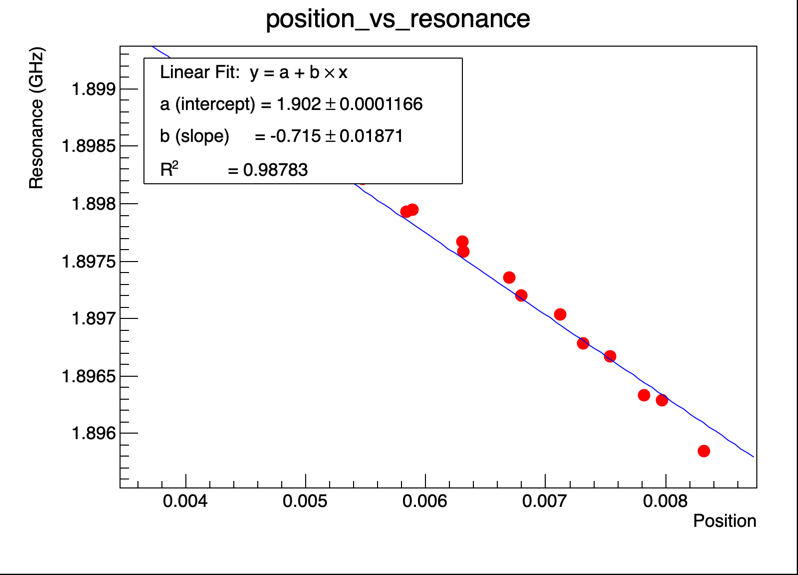
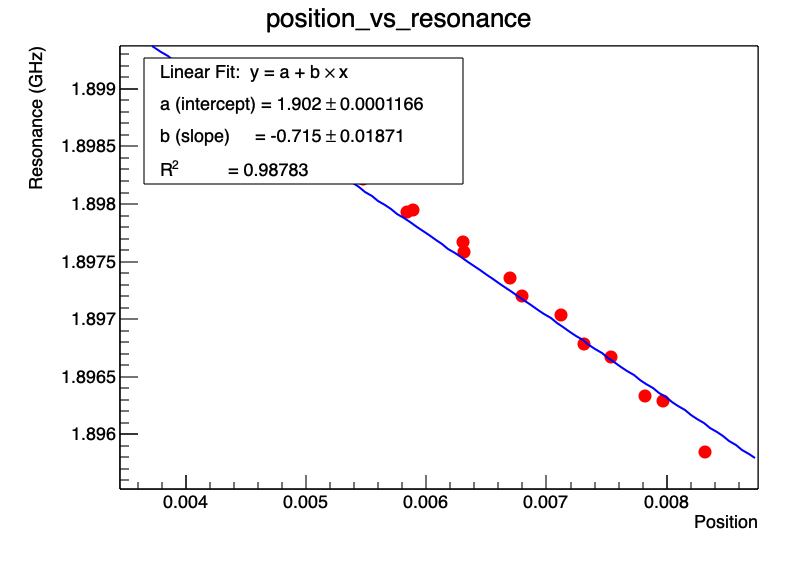
feat: improve positioning accuracy with statistical sampling and refactor frequency tuning utilities.

diff --git a/linux_vna/set_target_freq.py b/linux_vna/set_target_freq.py
@@ -1,94 +1,93 @@
-import datetime
-import os
-import pyvisa
+import sys
 import time
+import pyvisa
 import Switchcontrol
 import vna_tools
-import find_resonance
 
-def set_target_freq(atc, mode="TM110", t_freq=1.896774):
-  mode = mode.upper()
-  print(f"Automatic VNA Measurement ({mode})")
+def set_target_freq(atc, mode="TM110"):
 
-  # スイッチ切替
-  Switchcontrol.set_switch("VNA", mode)
+    mode = mode.upper()
 
-  # VNA接続
-  rm = pyvisa.ResourceManager('@py')
-  resource_string = 'TCPIP0::192.168.12.4::inst0::INSTR'
-  try:
-    znb = vna_tools.get_vna_resource(rm, resource_string)
-  except Exception as e:
-    print("Connection Failed:", e)
-    return
+    print("Automatic VNA Measurement")
 
-  vna_tools.setup_vna(znb)
+    # スイッチ切替
+    Switchcontrol.set_switch("VNA", mode)
 
-  # --- 保存先ディレクトリの作成 (data/年月日/Exp#) ---
-  now_dt = datetime.datetime.now()
-  date_dir = now_dt.strftime("%Y%m%d")
-  
-  # 既存の実験フォルダ内を探すか、新しいExp番号のフォルダを決定する
-  base_output_dir = f"./data/{date_dir}"
-  if not os.path.exists(base_output_dir):
-    os.makedirs(base_output_dir)
+    # VNA接続
+    rm = pyvisa.ResourceManager('@py')
+    resource_string = 'TCPIP0::192.168.12.4::inst0::INSTR'
+    try:
+        znb = vna_tools.get_vna_resource(rm, resource_string)
+    except Exception as e:
+        print("Connection Failed:", e)
+        return
 
-  # Run# の採番 (既存の Run フォルダの数を数えて次の番号にする)
-  existing_exps = [d for d in os.listdir(base_output_dir) if d.startswith("Run")]
-  exp_num = len(existing_exps) + 1
-  output_file = f"{base_output_dir}/Run{exp_num}.txt"
+    # VNA設定
+    vna_tools.setup_vna(znb)
 
-  print(f"Log will be saved to: {output_file}")
-  
-  with open(output_file, "w", encoding="utf-8") as f:
-    f.write("Step_Count,Position,Resonance_f0_GHz\n")
+    # 共鳴周波数を取得
+    if mode == "TM110":
+        min_freq = vna_tools.find_min_freq(znb, 2, "Trc4", threshold=0.5)
+        target_freq = 1.8974e9
+    else:
+        min_freq = vna_tools.find_min_freq(znb, 4, "Trc8", threshold=0.5)
+        target_freq = 2.565e9
 
-    # 行き
-    for i in range(1, nstep + 1):
-        print(f"\n--- Forward Scan {i}/{nstep} ---")
+    if min_freq is None:
+        print("共鳴周波数が見つかりませんでした。終了します。")
+        znb.close()
+        rm.close()
+        return
 
-        atc.move_by_steps(1, sstep, 0.01)   # +方向, TM110fre.は-
-        time.sleep(0.1)
-        pos = atc.get_position(1)
+    print(f"Current resonance freq: {min_freq / 1e6:.6f} MHz")
+    print(f"Target freq:            {target_freq / 1e6:.6f} MHz")
 
-        csv_path = vna_tools.measure_and_save(znb, f"{mode}_F{i}")
-        results = find_resonance.analyze(csv_path)
+    # 必要ステップ数を計算
+    delta_freq = target_freq - min_freq
+    slope = 3.1e-6  # step/Hz
+    step = int(round(slope * delta_freq)) # 四捨五入して整数型
+    print(f"\nFrequency difference: {delta_freq / 1e6:.4f} MHz")
+    print(f"Estimated steps needed: {step}")
 
-        if mode == "TM110":
-            result = results["110_Narrow"]
-        else:
-            result = results["210_Narrow"]
+    # Piezoを移動
+    pos = atc.get_position(1)
+    print(f"\nInitial Piezo position: {pos} V")
+    time.sleep(0.1)
 
-        f0 = result["f0"]
+    atc.move_by_steps(1, step, 0.01)
+    time.sleep(0.1)
 
-        print(f"Forward Step: {i}, Position: {pos}, f0: {f0:.6f} GHz")
-        f.write(f"{i},{pos},{f0:.6f}\n")
-        f.flush()
+    pos = atc.get_position(1)
+    print(f"Final Piezo position:   {pos} V")
+
+    # 移動後の共鳴周波数を確認
+    print("\nChecking resonance frequency after move...")
+    if mode == "TM110":
+        new_freq = vna_tools.find_min_freq(znb, 2, "Trc4", threshold=0.5)
+    else:
+        new_freq = vna_tools.find_min_freq(znb, 4, "Trc8", threshold=0.5)
+
+    if new_freq is not None:
+        print(f"New resonance freq:  {new_freq / 1e6:.6f} MHz")
+        print(f"Remaining offset:    {(target_freq - new_freq) / 1e6:.4f} MHz")
+    else:
+        print("移動後の共鳴周波数が見つかりませんでした。")
+
+    # 終了処理
+    znb.close()
+    rm.close()
 
 
-    # 帰り
-    for i in range(nstep, 0, -1):
-        print(f"\n--- Backward Scan {nstep-i+1}/{nstep} ---")
+if __name__ == "__main__":
+    if len(sys.argv) != 2:
+        print("Usage:")
+        print("  python set_target_freq.py TM110")
+        print("  python set_target_freq.py TM210")
+        sys.exit(1)
 
-        atc.move_by_steps(1, -sstep, 0.01)   # -方向, TM110fre.は+
-        time.sleep(0.1)
-        pos = atc.get_position(1)
+    mode_arg = sys.argv[1].upper()
+    print("Error: atc controller must be initialized before calling set_target_freq().")
+    print("Please call set_target_freq(atc, mode) from your main script.")
+    sys.exit(1)
 
-        csv_path = vna_tools.measure_and_save(znb, f"{mode}_B{i}")
-        results = find_resonance.analyze(csv_path)
 
-        if mode == "TM110":
-            result = results["110_Narrow"]
-        else:
-            result = results["210_Narrow"]
-
-        f0 = result["f0"]
-
-        print(f"Backward Step: {i}, Position: {pos}, f0: {f0:.6f} GHz")
-        f.write(f"{i},{pos},{f0:.6f}\n")
-        f.flush()
-
-  # 終了処理
-  znb.close()
-  rm.close()
-  print("\nScan Finished. Log saved to:", output_file)

diff --git a/linux_vna/macro_tools.py b/linux_vna/macro_tools.py
@@ -1,12 +1,10 @@
 import datetime
 import os
 import pyvisa
-import statistics
 import time
 import Switchcontrol
 import vna_tools
 import find_resonance
-
 
 def read_position_stats(atc, n=10, interval=0.05):
   """axis 1 と axis 2 のポジションを n 回読み取って平均と標準偏差を返す。
@@ -122,3 +120,76 @@ def run_scan(atc, mode="TM110", sstep=10, nstep=10):
   znb.close()
   rm.close()
   print("\nScan Finished. Log saved to:", output_file)
+
+def set_target_freq(atc, mode="TM110"):
+
+  mode = mode.upper() # 大文字に自動変換
+
+  print("Automatic VNA Measurement")
+
+  # スイッチ切替
+  Switchcontrol.set_switch("VNA", mode)
+
+  # VNA接続
+  rm = pyvisa.ResourceManager('@py')
+  resource_string = 'TCPIP0::192.168.12.4::inst0::INSTR'
+  try:
+    znb = vna_tools.get_vna_resource(rm, resource_string)
+  except Exception as e:
+    print("Connection Failed:", e)
+    return
+
+  # VNA設定
+  vna_tools.setup_vna(znb)
+
+  # 共鳴周波数を取得
+  if mode == "TM110":
+    min_freq = vna_tools.find_min_freq(znb, 2, "Trc4", threshold=0.5)
+    target_freq = 1.8974e9
+  else:
+    min_freq = vna_tools.find_min_freq(znb, 4, "Trc8", threshold=0.5)
+    target_freq = 2.565e9
+
+  if min_freq is None:
+    print("共鳴周波数が見つかりませんでした。終了します。")
+    znb.close()
+    rm.close()
+    return
+
+  print(f"Current resonance freq: {min_freq / 1e6:.6f} MHz")
+  print(f"Target freq:            {target_freq / 1e6:.6f} MHz")
+
+  # 必要ステップ数を計算
+  delta_freq = target_freq - min_freq
+  slope = 3.1e-6  # step/Hz
+  step = int(round(slope * delta_freq)) # 四捨五入して整数型
+  print(f"\nFrequency difference: {delta_freq / 1e6:.4f} MHz")
+  print(f"Estimated steps needed: {step}")
+
+  # Piezoを移動
+  pos1_mean, pos1_err, pos2_mean, pos2_err = read_position_stats(atc, n=10, interval=0.05)
+  print(f"\nInitial Piezo position: Pos1: {pos1_mean:.4f}±{pos1_err:.4f} V, Pos2: {pos2_mean:.4f}±{pos2_err:.4f} V")
+  time.sleep(0.1)
+
+  atc.move_by_steps(1, step, 0.01)
+  time.sleep(0.1)
+
+  pos1_mean, pos1_err, pos2_mean, pos2_err = read_position_stats(atc, n=10, interval=0.05)
+  print(f"\nInitial Piezo position: Pos1: {pos1_mean:.4f}±{pos1_err:.4f} V, Pos2: {pos2_mean:.4f}±{pos2_err:.4f} V")
+
+  # 移動後の共鳴周波数を確認
+  print("\nChecking resonance frequency after move...")
+  if mode == "TM110":
+    new_freq = vna_tools.find_min_freq(znb, 2, "Trc4", threshold=0.5)
+  else:
+    new_freq = vna_tools.find_min_freq(znb, 4, "Trc8", threshold=0.5)
+
+  if new_freq is not None:
+    print(f"New resonance freq:  {new_freq / 1e6:.6f} MHz")
+    print(f"Remaining offset:    {(target_freq - new_freq) / 1e6:.4f} MHz")
+  else:
+    print("移動後の共鳴周波数が見つかりませんでした。")
+
+  # 終了処理
+  znb.close()
+  rm.close()

diff --git a/linux_vna/vna_tools.py b/linux_vna/vna_tools.py
@@ -234,7 +234,7 @@ def measure_and_save(znb, suffix_arg="data"):
   print(f"Raw data saved to: {raw_filename}")
   return summary_filename
 
-def find_s11_min_freq(znb, ch, trc_name, threshold=0.3):
+def find_min_freq(znb, ch, trc_name, threshold=0.3):
   """S11の振幅が threshold 以下の範囲内で最小値となる周波数を返す。
 
   Parameters
@@ -270,4 +270,4 @@ def find_s11_min_freq(znb, ch, trc_name, threshold=0.3):
   freq_min, amp_min = min(candidates, key=lambda x: x[1])
   print(f"{GREEN}[find_s11_min_freq] Ch{ch} '{trc_name}': "
         f"最小振幅 = {amp_min:.6f} @ {freq_min/1e6:.4f} MHz{RESET}")
-  return freq_min, amp_min
+  return freq_min
